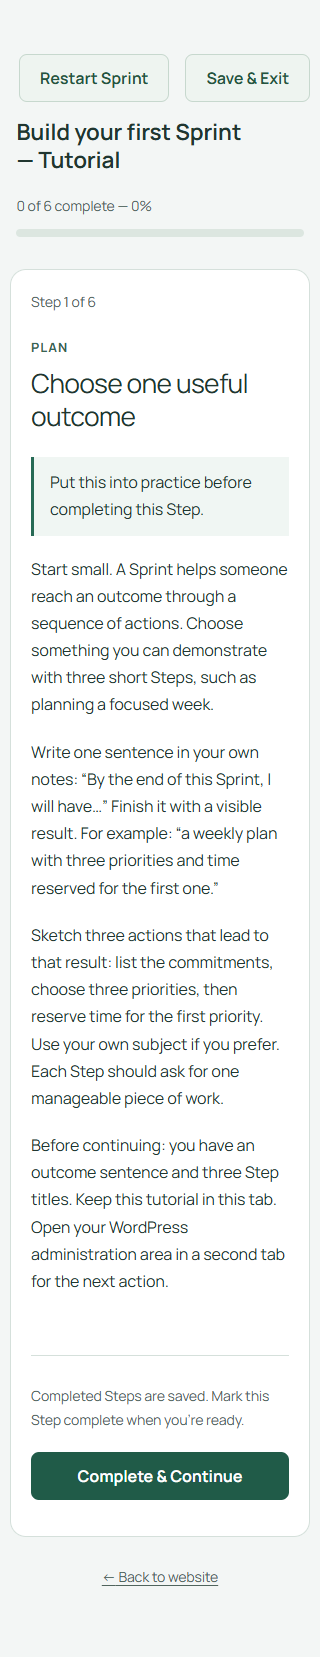
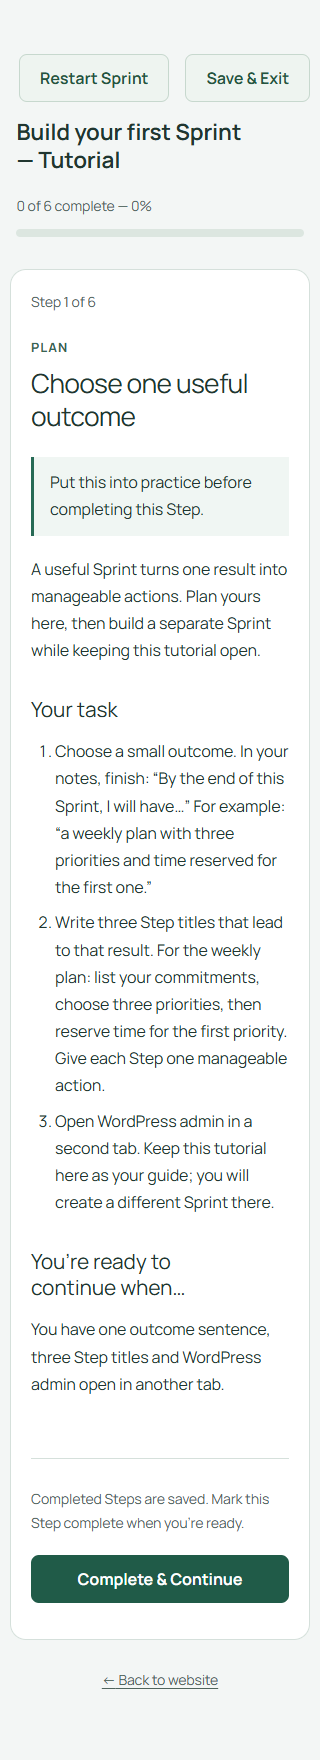
SE-030: structure tutorial tasks and readiness outcomes

Changed region(s): [[0.0312, 0.0308, 0.9062, 0.8002], [0.0938, 0.831, 0.9062, 0.9849], [0.875, 0.4001, 0.9062, 0.4309]]

diff --git a/src/Tutorial/Content.php b/src/Tutorial/Content.php
@@ -37,84 +37,118 @@ final class Content {
 			array(
 				'title' => __( 'Choose one useful outcome', 'sprint-engine' ),
 				'stage' => __( 'Plan', 'sprint-engine' ),
-				'body'  => self::blocks(
+				'body'  => self::step(
+					__( 'A useful Sprint turns one result into manageable actions. Plan yours here, then build a separate Sprint while keeping this tutorial open.', 'sprint-engine' ),
 					array(
-						__( 'Start small. A Sprint helps someone reach an outcome through a sequence of actions. Choose something you can demonstrate with three short Steps, such as planning a focused week.', 'sprint-engine' ),
-						__( 'Write one sentence in your own notes: “By the end of this Sprint, I will have…” Finish it with a visible result. For example: “a weekly plan with three priorities and time reserved for the first one.”', 'sprint-engine' ),
-						__( 'Sketch three actions that lead to that result: list the commitments, choose three priorities, then reserve time for the first priority. Use your own subject if you prefer. Each Step should ask for one manageable piece of work.', 'sprint-engine' ),
-						__( 'Before continuing: you have an outcome sentence and three Step titles. Keep this tutorial in this tab. Open your WordPress administration area in a second tab for the next action.', 'sprint-engine' ),
-					)
+						__( 'Choose a small outcome. In your notes, finish: “By the end of this Sprint, I will have…” For example: “a weekly plan with three priorities and time reserved for the first one.”', 'sprint-engine' ),
+						__( 'Write three Step titles that lead to that result. For the weekly plan: list your commitments, choose three priorities, then reserve time for the first priority. Give each Step one manageable action.', 'sprint-engine' ),
+						__( 'Open WordPress admin in a second tab. Keep this tutorial here as your guide; you will create a different Sprint there.', 'sprint-engine' ),
+					),
+					__( 'You have one outcome sentence, three Step titles and WordPress admin open in another tab.', 'sprint-engine' )
 				),
 			),
 			array(
 				'title' => __( 'Create your own Sprint', 'sprint-engine' ),
 				'stage' => __( 'Build', 'sprint-engine' ),
-				'body'  => self::blocks(
+				'body'  => self::step(
+					__( 'Give your new Sprint a clear starting point. Its introduction tells people who it is for, what they will achieve and what they need before starting.', 'sprint-engine' ),
 					array(
-						__( 'In your other tab, open Sprints → Add Sprint. Create a new Sprint with your own title, such as “Plan a focused week”. Leave the supplied Tutorial Sprint as your reference.', 'sprint-engine' ),
-						__( 'In the main block editor, add a short introduction: who this Sprint is for, what they will finish with and what they need before starting. This introduction appears before Start Sprint. The first Step will contain the first action, so it does not need another welcome.', 'sprint-engine' ),
-						__( 'If you add an excerpt, it takes precedence over the introduction on the start screen. You can leave it blank for now. A featured image and estimated duration are optional; neither is required to build a useful Sprint.', 'sprint-engine' ),
-						__( 'Choose Save draft. Sprint structure becomes available after the first save. If you cannot see the setup panels, open the editor’s Options menu and check its panel preferences, or scroll below the content.', 'sprint-engine' ),
-						__( 'Before continuing: your separate Sprint is saved as a draft with a clear introduction. Return to this tutorial tab and choose Complete & Continue.', 'sprint-engine' ),
-					)
+						__( 'In your admin tab, open Sprints → Add Sprint. Give your separate Sprint a title, such as “Plan a focused week”. Leave this Tutorial Sprint as your reference.', 'sprint-engine' ),
+						__( 'Write a short introduction in the main block editor. It appears before Start Sprint; the first Step will contain the first action, without another welcome.', 'sprint-engine' ),
+						__( 'Leave the excerpt blank for now: adding one replaces the introduction on the start screen. A featured image and estimated duration are optional.', 'sprint-engine' ),
+						__( 'Choose Save draft to unlock Sprint structure. If setup panels are hidden, check panel preferences in the editor’s Options menu or scroll below the content.', 'sprint-engine' ),
+					),
+					__( 'Your separate Sprint is saved as a draft with a clear introduction. Return here and choose Complete & Continue.', 'sprint-engine' )
 				),
 			),
 			array(
 				'title' => __( 'Add and order your Steps', 'sprint-engine' ),
 				'stage' => __( 'Build', 'sprint-engine' ),
-				'body'  => self::blocks(
+				'body'  => self::step(
+					__( 'Turn your plan into a clear path. Sprint structure saves the order and calculates the next-Step links for you.', 'sprint-engine' ),
 					array(
-						__( 'In your saved Sprint editor, find Sprint structure. Enter your first Step title and choose Add Step. Repeat for the other two titles from your plan. Quick Add creates draft Steps attached to this Sprint.', 'sprint-engine' ),
-						__( 'Arrange the Steps into the order someone should follow. Use the drag handles or the Move Step up and Move Step down controls, then choose Save order. Save any pending order changes before adding or trashing another Step.', 'sprint-engine' ),
-						__( 'The first row is Start and the last is Final. Sprint Engine calculates the positions and next-Step links together; you do not need to enter IDs or wire the links yourself.', 'sprint-engine' ),
-						__( 'Choose the first Step’s Edit link. Each Step has its own native WordPress block editor. Back to Sprint returns you to the parent editor after saving. Sprints → Sprint Steps also lets you find Steps and filter them by their parent Sprint.', 'sprint-engine' ),
-						__( 'Before continuing: your Sprint has three Steps in a saved order, and you have opened the first Step for editing.', 'sprint-engine' ),
-					)
+						__( 'In your saved Sprint editor, find Sprint structure. Enter a title and choose Add Step. Repeat for all three planned titles. Quick Add attaches each new draft Step to your Sprint.', 'sprint-engine' ),
+						__( 'Arrange the Steps with the drag handles or Move Step up/down controls, then choose Save order. Save pending order changes before adding or trashing another Step.', 'sprint-engine' ),
+						__( 'Check that Start marks the first row and Final the last. Positions and next-Step links are calculated together; you do not need to enter IDs or connect them yourself.', 'sprint-engine' ),
+						__( 'Choose the first Step’s Edit link to open its block editor. After saving, Back to Sprint returns to the parent editor. Find and filter Steps by Sprint in Sprints → Sprint Steps.', 'sprint-engine' ),
+					),
+					__( 'Your Sprint has three Steps in a saved order, and its first Step is open for editing.', 'sprint-engine' )
 				),
 			),
 			array(
 				'title' => __( 'Write content people can act on', 'sprint-engine' ),
 				'stage' => __( 'Author', 'sprint-engine' ),
-				'body'  => self::blocks(
+				'body'  => self::step(
+					__( 'Make every Step easy to act on: explain why it matters, give a small task and describe the finished result. Use this tutorial’s headings and numbered instructions as a model.', 'sprint-engine' ),
 					array(
-						__( 'In the first Step editor, use Paragraph, Heading and List blocks to explain the action. Give enough context to begin, a small set of instructions and a clear “you are done when…” result. Keep headings descriptive and use a logical heading order.', 'sprint-engine' ),
-						__( 'For the weekly-plan example, ask the participant to list this week’s commitments in their own notes, separate fixed appointments from flexible work and finish with one usable list. Core does not collect those notes or provide Workspace or Workbook fields.', 'sprint-engine' ),
-						__( 'In the Step settings, optionally set Stage Label to a short phase such as “Plan”, and estimated minutes to a positive whole number. Choose Task mode for an action-focused Step, or Content for reading. Neither mode completes a Step automatically.', 'sprint-engine' ),
-						__( 'Use native Image or Audio blocks when they help. Supply useful image alternative text and a written equivalent for essential audio instructions. Media playback does not mark the Step complete. No third-party block or service is needed.', 'sprint-engine' ),
-						__( 'Save your work. Use View → Preview Step, or Options → Preview Step if View is unavailable, to inspect the presentation. Save metadata and images before previewing. Then use Back to Sprint and write the remaining Steps.', 'sprint-engine' ),
-						__( 'Before continuing: each Step explains a concrete action and its finish condition. The tutorial cannot inspect or validate your work; review it yourself before moving on.', 'sprint-engine' ),
-					)
+						__( 'Write your first action with Paragraph, Heading and List blocks. Keep headings descriptive and in a logical order. For the weekly plan, ask people to list commitments in their own notes, separate fixed appointments from flexible work and finish with one usable list.', 'sprint-engine' ),
+						__( 'Choose Task mode for action or Content for reading. Optionally add a Stage Label such as “Plan” and estimated minutes as a positive whole number. Neither mode completes a Step automatically.', 'sprint-engine' ),
+						__( 'Add native Image or Audio blocks only when useful. Provide image alternative text and a written equivalent for essential audio instructions. Playing audio does not complete the Step; no third-party service is needed.', 'sprint-engine' ),
+						__( 'Save content, metadata and images, then use View → Preview Step (or Options → Preview Step). Use Back to Sprint and write the remaining Steps.', 'sprint-engine' ),
+					),
+					__( 'Each Step gives a concrete action and a clear finish condition. Review the work yourself; this tutorial does not inspect or validate it.', 'sprint-engine' ),
+					__( 'Ask people to use their own notes when needed. Core does not collect those notes or include Workspace or Workbook fields.', 'sprint-engine' )
 				),
 			),
 			array(
 				'title' => __( 'Publish a ready, Launchable Sprint', 'sprint-engine' ),
 				'stage' => __( 'Prepare', 'sprint-engine' ),
-				'body'  => self::blocks(
+				'body'  => self::step(
+					__( 'Make your Sprint ready for the Runner. Both the Sprint and every Step must be Published, passwordless and connected in a valid saved order.', 'sprint-engine' ),
 					array(
-						__( 'Open each of your Steps, review its content and choose Publish. Draft, Pending, Private and Scheduled Steps prevent member access. Keep the Sprint and its Steps passwordless for the Runner.', 'sprint-engine' ),
-						__( 'Return to the Sprint editor. Review Sprint structure: all three Steps should show Published, with the intended Start, Final and next-Step links. Save order if you have changed the sequence. Resolve any setup warnings before proceeding.', 'sprint-engine' ),
-						__( 'In Completion screen, you may add a short message that acknowledges the result. An optional next-action button needs both its label and a full HTTP or HTTPS destination. Leave both empty if there is no useful next action.', 'sprint-engine' ),
-						__( 'Enable Launchable in the Sprint settings and save or publish the Sprint. The Sprint itself must be Published, every Step Published and its saved linear structure valid. If Launchable is rejected, read the notice, fix the problem and save again.', 'sprint-engine' ),
-						__( 'Publishing your own Sprint does not give it this tutorial’s administrator-only marker. Standalone Core allows signed-in WordPress users to access ready Sprints; installed access extensions can apply their own rules. Use a test site while learning if your site already has members.', 'sprint-engine' ),
-						__( 'Before continuing: your new Sprint is Published and Launchable with no readiness warning. Locate its Runner URL in the Sprint editor.', 'sprint-engine' ),
-					)
+						__( 'Review each Step and choose Publish. Draft, Pending, Private and Scheduled Steps prevent member access.', 'sprint-engine' ),
+						__( 'Return to Sprint structure. Check all three Steps show Published, with the intended Start, Final and next-Step links. Save order after any sequence change and resolve setup warnings.', 'sprint-engine' ),
+						__( 'Optionally add a message in Completion screen. A next-action button needs both a label and a full HTTP or HTTPS URL; leave both empty if there is no useful next action.', 'sprint-engine' ),
+						__( 'Enable Launchable and publish your Sprint. If Launchable is rejected, read the notice, fix the problem and save again. Locate the Runner URL in the Sprint editor.', 'sprint-engine' ),
+					),
+					__( 'Your own Sprint is Published and Launchable with no readiness warning, and you have its Runner URL.', 'sprint-engine' ),
+					__( 'Your Sprint does not inherit this tutorial’s administrator-only rule. Standalone Core admits signed-in WordPress users to ready Sprints; access extensions may apply other rules. Learn on a test site if your site already has members.', 'sprint-engine' )
 				),
 			),
 			array(
 				'title' => __( 'Test the journey and make it yours', 'sprint-engine' ),
 				'stage' => __( 'Test', 'sprint-engine' ),
-				'body'  => self::blocks(
+				'body'  => self::step(
+					__( 'Try the journey as a participant. Testing your own Sprint reveals whether each instruction, saved position and completion screen works as intended.', 'sprint-engine' ),
 					array(
-						__( 'Open your new Sprint’s Runner URL in another tab while signed in. If the URL is unavailable, check the editor’s Runner status and Settings → Permalinks; the Runner requires pretty permalinks. Review the introduction, then choose Start Sprint.', 'sprint-engine' ),
-						__( 'Do the first action as a participant. Viewing the page, scrolling or playing audio does not finish it. Choose Complete & Continue explicitly when done. Leave the Runner tab, open My Sprints at /sprint-engine/dashboard/ and resume your new Sprint to check the saved position.', 'sprint-engine' ),
-						__( 'Work through the remaining Steps and complete the final one. Check the completion message. Restart Sprint creates a new attempt while retaining the previous attempt’s progress. Try a narrow screen and keyboard navigation as well as your usual browser.', 'sprint-engine' ),
-						__( 'If you change your Steps, save and retest their sequence and finish conditions. A signed-in test member can help you check your own Sprint’s normal access policy; that member cannot run this administrator-only tutorial.', 'sprint-engine' ),
-						__( 'You now have a separate Sprint you built yourself. You can reopen this example from Sprints → Settings → Open Tutorial Sprint, inspect its Sprint and Step editors, or edit or delete it whenever you choose. Plugin updates do not replace your tutorial edits.', 'sprint-engine' ),
-						__( 'Before completing this tutorial: you have tested start, explicit completion, leave and resume, and the final screen in your own Sprint. Choose Complete Sprint here to save this tutorial’s completion too.', 'sprint-engine' ),
-					)
+						__( 'Open your Sprint’s Runner URL in another tab while signed in. Review the introduction and choose Start Sprint. If unavailable, check Runner status and Settings → Permalinks: the Runner needs pretty permalinks.', 'sprint-engine' ),
+						__( 'Do the first action and choose Complete & Continue. Viewing, scrolling or audio playback never completes a Step. Leave, open My Sprints at /sprint-engine/dashboard/ and resume to check your saved position.', 'sprint-engine' ),
+						__( 'Complete the remaining Steps and review the final screen. Try Restart Sprint: it creates a new attempt and retains previous progress. Test a narrow screen and keyboard navigation too.', 'sprint-engine' ),
+						__( 'Save and retest any changes to the sequence or finish conditions. A signed-in test member can check your Sprint’s normal access; they cannot run this administrator-only tutorial.', 'sprint-engine' ),
+					),
+					__( 'You have tested start, explicit completion, leave/resume and the final screen in your separate Sprint. Choose Complete Sprint here to save this tutorial’s completion too.', 'sprint-engine' ),
+					__( 'Keep this example for reference: Sprints → Settings → Open Tutorial Sprint. You can inspect, edit or delete it later; plugin updates do not replace your tutorial edits.', 'sprint-engine' )
 				),
 			),
 		);
+	}
+
+	/**
+	 * A short purpose, numbered task and observable outcome in native text blocks.
+	 *
+	 * @param string   $introduction Purpose of the Step.
+	 * @param string[] $tasks Ordered actions.
+	 * @param string   $outcome Ready-to-continue outcome.
+	 * @param string   $note Optional supporting guidance.
+	 * @return string
+	 */
+	private static function step( $introduction, $tasks, $outcome, $note = '' ) {
+		$registry = \WP_Block_Type_Registry::get_instance();
+		$heading  = block_has_support( $registry->get_registered( 'core/heading' ), 'className', true ) ? ' class="wp-block-heading"' : '';
+		$list     = block_has_support( $registry->get_registered( 'core/list' ), 'className', true ) ? ' class="wp-block-list"' : '';
+		$items    = array_map(
+			static function ( $task ) use ( $registry ) {
+				$item = '<li>' . esc_html( $task ) . '</li>';
+				// WordPress 6.0 uses inline list items; newer native editors use child blocks.
+				return $registry->is_registered( 'core/list-item' ) ? '<!-- wp:list-item -->' . $item . '<!-- /wp:list-item -->' : $item;
+			},
+			$tasks
+		);
+		return self::blocks( array( $introduction ) ) . "\n\n" .
+			'<!-- wp:heading {"level":3} --><h3' . $heading . '>' . esc_html__( 'Your task', 'sprint-engine' ) . '</h3><!-- /wp:heading -->' . "\n\n" .
+			'<!-- wp:list {"ordered":true} --><ol' . $list . '>' . implode( '', $items ) . '</ol><!-- /wp:list -->' . "\n\n" .
+			'<!-- wp:heading {"level":3} --><h3' . $heading . '>' . esc_html__( 'You’re ready to continue when…', 'sprint-engine' ) . '</h3><!-- /wp:heading -->' . "\n\n" .
+			self::blocks( array( $outcome ) ) . ( $note ? "\n\n" . self::blocks( array( $note ) ) : '' );
 	}
 
 	/**

diff --git a/tests/integration/tutorial.php b/tests/integration/tutorial.php
@@ -130,10 +130,20 @@ tutorial_check( is_int( $tutorial_id ) && $tutorial_id === $tutorial_ids[1] && $
 tutorial_check( $tutorial_id === ( new Installer() )->install() && 7 === count( tutorial_posts() ), 'Refresh, repeat click and retry reuse the same tutorial unchanged.' );
 tutorial_check( '' === Availability::reason( get_post( $tutorial_id ) ) && Marker::canonical( $tutorial_id ) && StructureManager::is_linear( $tutorial_id ), 'Tutorial is published, passwordless, Launchable and structurally ready.' );
 $steps = Meta::steps( $tutorial_id );
+$original_word_limits = array( 134, 171, 166, 221, 208, 232 );
 foreach ( $steps as $index => $step ) {
 	$definition = Content::steps()[$index];
-	$blocks = array_filter( parse_blocks( $step->post_content ), static function ( $block ) { return null !== $block['blockName']; } );
-	tutorial_check( 'publish' === $step->post_status && '' === $step->post_password && $definition['body'] === $step->post_content && count( $blocks ) >= 4 && array( 'core/paragraph' ) === array_values( array_unique( array_column( $blocks, 'blockName' ) ) ), 'Original Step ' . ( $index + 1 ) . ' is complete, published native Gutenberg content.' );
+	$blocks = array_values( array_filter( parse_blocks( $step->post_content ), static function ( $block ) { return null !== $block['blockName']; } ) );
+	$expected = array( 'core/paragraph', 'core/heading', 'core/list', 'core/heading', 'core/paragraph' );
+	if ( $index >= 3 ) { $expected[] = 'core/paragraph'; }
+	tutorial_check( 'publish' === $step->post_status && '' === $step->post_password && $definition['body'] === $step->post_content && $expected === array_column( $blocks, 'blockName' ), 'Step ' . ( $index + 1 ) . ' uses a published native purpose/task/outcome structure with optional supporting paragraph.' );
+	$headings = array( $blocks[1], $blocks[3] );
+	tutorial_check( array( 3, 3 ) === array_column( array_column( $headings, 'attrs' ), 'level' ) && 'Your task' === wp_strip_all_tags( $headings[0]['innerHTML'] ) && 'You’re ready to continue when…' === wp_strip_all_tags( $headings[1]['innerHTML'] ) && '' !== trim( wp_strip_all_tags( $blocks[0]['innerHTML'] ) ) && '' !== trim( wp_strip_all_tags( $blocks[4]['innerHTML'] ) ), 'Step headings sit below the Runner Step title and separate a real purpose, task and readiness outcome.' );
+	$task_list = $blocks[2];
+	$child_types = array_values( array_unique( array_column( $task_list['innerBlocks'], 'blockName' ) ) );
+	tutorial_check( true === $task_list['attrs']['ordered'] && ( array() === $child_types || array( 'core/list-item' ) === $child_types ) && ( 0 === $index ? 3 : 4 ) === substr_count( render_block( $task_list ), '<li>' ), 'Task instructions form one numbered native List, compatible with inline and child List items.' );
+	$words = str_word_count( html_entity_decode( wp_strip_all_tags( str_replace( '><', '> <', $step->post_content ) ) ) );
+	tutorial_check( $words <= $original_word_limits[$index], 'Step ' . ( $index + 1 ) . ' stays within its original English word count, including the new headings.' );
 }
 $slug = get_post_field( 'post_name', $tutorial_id );
 tutorial_check( 'not_started' === ( new Runner() )->resolve( $slug )['state'] && str_contains( Routes::url( $slug ), '/sprint/' ), 'Administrator can open the actual canonical Runner before starting.' );

diff --git a/docs/validation/se-030-first-install-tutorial.md b/docs/validation/se-030-first-install-tutorial.md
@@ -34,7 +34,8 @@ deployment, WordPress.org/SVN publication or version bump forms part of this wor
 - Six original, bundled native Gutenberg Steps guide the administrator to define
   an outcome, create a **different** Sprint, add/order its Steps, author actionable
   content, publish/enable Launchable, and test the Runner. Each provides concrete
-  WordPress instructions and a finish condition. The copy distinguishes the
+  WordPress instructions in a short purpose / numbered task / readiness outcome
+  format, using native Paragraph, Heading and List blocks. The copy distinguishes the
   Sprint introduction from Step work, describes Core's notes/media limits, and
   makes no promise to validate the other Sprint. No external content, screenshot,
   hard-coded site URL/ID, Pro block or commerce dependency is shipped.
@@ -96,7 +97,7 @@ progress under the existing data-retention policy. Reinstallation does not reuse
 those historical attempts or silently delete old Steps. Native Sprint Steps can
 be used to manage retained content. Trash restoration retains the original Steps.
 
-## Executed checks
+## Initial implementation checks
 
 All database tests used explicitly disposable installations and non-default table
 prefixes. Warnings/notices in integration suites are promoted to exceptions.
@@ -160,7 +161,73 @@ Browser fixture update transients prevent unrelated WordPress update-check traff
 in the offline sandbox. No update behavior is changed in shipped Core code.
 
 Reviewed screenshots: [native Welcome choices](images/se-030/welcome.png) and
-[tutorial Step at 320px](images/se-030/tutorial-step-mobile.png).
+[tutorial Step at 320px](images/se-030/tutorial-step-mobile.png) (updated by the
+instructional-design pass below).
+
+## Instructional-design polish — 24 November 2026
+
+Owner-requested follow-up on the same feature branch and PR #22. Runtime changes
+are limited to `src/Tutorial/Content.php`: installation, access, transactions,
+schema, metadata, routes, templates, styles, versions and the marker contract are
+unchanged. Existing installed tutorial posts and administrator edits are not
+overwritten; the revised bundled copy is used for new explicit installations.
+
+Every Step now starts with a brief purpose, followed by **Your task** and one
+numbered native List, then **You’re ready to continue when…** and an observable
+outcome. The first Step has three actions; the others have four. Optional short
+supporting paragraphs retain the Core notes/media limits, ordinary Sprint access
+rules and later tutorial reference instructions. All six Steps still guide the
+administrator to build a separate Sprint from scratch in another tab. There is no
+automatic assessment, new block, tutorial framework, external asset or Pro feature.
+
+H3 section headings sit below the normal Runner's H2 Step title. List semantics,
+reading order and heading hierarchy do not rely on colour or bold text alone.
+There are no authored font, colour or spacing overrides: normal Runner branding
+and native content styles supply the presentation. Content serialization uses the
+installed native block capabilities for default classes and list-item structure:
+WordPress 6.0 gets its inline List items, while current WordPress gets native
+`core/list-item` children. Both formats are verified in their actual editors.
+
+The copy is shorter in every Step, including the new headings. English word counts
+use tag-separated, decoded text and PHP `str_word_count()`; test budgets preserve
+the original upper bounds.
+
+| Step | Previous | Polished |
+| --- | ---: | ---: |
+| Choose one useful outcome | 134 | 130 |
+| Create your own Sprint | 171 | 153 |
+| Add and order your Steps | 166 | 163 |
+| Write content people can act on | 221 | 213 |
+| Publish a ready, Launchable Sprint | 208 | 186 |
+| Test the journey and make it yours | 232 | 203 |
+| Total | 1,132 | 1,048 |
+
+The integration assertions now check the published native block sequence, purpose
+and outcome text, H3 section labels, ordered List/item counts and each Step's
+original length budget. The existing lifecycle/access/rollback assertions still
+run. Browser checks cover all six Steps at four widths, list bounds, heading
+hierarchy/colour inheritance and 44px Runner controls; every Step is opened,
+saved through the native editor and reopened with valid Paragraph/Heading/List
+blocks and the same structure. Resize measurements wait two animation frames
+for browser layout to settle; Settings initialization requests finish before
+refresh/navigation so the test does not abort native Media Library requests.
+
+| Follow-up check | Result |
+| --- | --- |
+| PHPCS, PHP lint for changed PHP, browser JavaScript syntax | PASS |
+| Existing JavaScript regressions | PASS, 39 tests |
+| Existing PHP regression matrix, WordPress 7.1.4 / PHP 8.3.35 / SQLite | PASS, 19 isolated suites, 1,851 assertions, no skips; includes authoring, Runner (305), REST, Dashboard, structure and release/asset checks |
+| Expanded tutorial suite on current WordPress/PHP | PASS, 122 assertions |
+| Expanded tutorial suite on WordPress 6.0 / PHP 8.0.30 / MariaDB 10.11.11 InnoDB | PASS, 122 assertions |
+| WordPress 6.0 / PHP 8.0 Chromium editor and Runner journey | PASS, all six native editor save/reopen checks and four-width Runner checks |
+| Current WordPress Chromium/Firefox/WebKit editor and Runner journeys | PASS, all six Steps at 1440/768/390/320px, list bounds and heading/branding checks; valid native editor save/reopen for every Step in all three engines |
+| Local runtime package and exact allowlist verification | PASS, 75 files; no new runtime asset or dependency |
+
+Reviewed Runner evidence: [desktop at 1440px](images/se-030/tutorial-step-desktop.png)
+and [mobile at 320px](images/se-030/tutorial-step-mobile.png).
+The owner-hosting, real-commerce, screen-reader and physical-device acceptance
+limitations below remain. This content-only pass does not change PRO-018's separate
+public-discovery integration responsibility or authorise merge/deploy/release.
 
 ## Files and implementation boundaries
 
